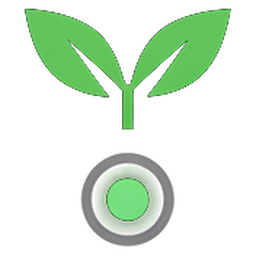
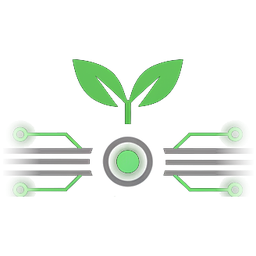
Branding: the mark keeps the conduits leaving the sprout's hub
The icon is now the sprout and hub with the conduits running out to each
side (the bus lines and inner nodes), fading at the edges as if they go
on. It's the favicon and iOS icon (square), and, cropped wide, sits
beside the wordmark in the sidebar and the HTML view's toolbar.

diff --git a/internal/htmlview/page.html b/internal/htmlview/page.html
@@ -46,7 +46,7 @@ button:hover { border-color: var(--muted); }
 .seg button + button { border-left: 1px solid var(--line); }
 .seg button.on { background: var(--accent); color: var(--panel); }
 .brand { display: inline-flex; align-items: center; gap: 6px; font-weight: 700; color: var(--ink); text-decoration: none; letter-spacing: -.01em; }
-.brand img { width: 22px; height: 22px; }
+.brand img { height: 22px; width: auto; }
 .seg-label { font-size: 13px; color: var(--muted); }
 
 /* Overview */

diff --git a/internal/server/web/index.html b/internal/server/web/index.html
@@ -13,7 +13,7 @@
 </head>
 <body>
   <aside id="sidebar">
-    <a href="#/" class="brand"><img src="brand/mark.png" alt="" width="30" height="30"><span>runnr</span></a>
+    <a href="#/" class="brand"><img src="brand/mark-wide.png" alt="" height="30"><span>runnr</span></a>
     <div class="side-actions">
       <button id="new-btn" class="primary">+ New runbook</button>
       <a href="#/history" class="nav-link" id="history-link">Run history</a>

diff --git a/docs/brand/make-assets.py b/docs/brand/make-assets.py
@@ -41,21 +41,34 @@ t.crop(box).save(f"{out}/logo.png", optimize=True)        # transparent: use thi
 im.crop(box).save(f"{out}/logo-black.png", optimize=True)  # on black
 im.save(f"{out}/logo-square-black.png", optimize=True)     # the original, square
 
-# The mark (favicon): just the sprout and the hub, no traces.
+def fade(t, frac):
+    """Fade the left and right edges out, so the conduits run on past it."""
+    w, h = t.size
+    p = t.load()
+    f = max(1, int(w * frac))
+    for y in range(h):
+        for x in range(w):
+            d = min(x, w - 1 - x)
+            if d < f:
+                r, g, b, a = p[x, y]
+                p[x, y] = (r, g, b, round(a * (d / f) ** 1.3))
+    return t
+
+
+# The mark: the sprout, the hub and the conduits leaving it sideways (the
+# bus lines and the inner nodes), fading out at the sides.
 m = Image.new("RGB", im.size)
 mp = m.load()
-for y in range(H):
-    for x in range(W):
-        sprout = 436 <= x <= 588 and 372 <= y <= 466
-        hub = (x - 512) ** 2 + (y - 512) ** 2 <= 34 ** 2
-        if sprout or hub:
-            mp[x, y] = px[x, y]
+for y in range(365, 557):
+    for x in range(352, 673):
+        mp[x, y] = px[x, y]
 mt = cutout(m)
-mb = mt.getchannel("A").point(lambda v: 255 if v > 24 else 0).getbbox()
-cx, cy = (mb[0] + mb[2]) // 2, (mb[1] + mb[3]) // 2
-half = max(mb[2] - mb[0], mb[3] - mb[1]) // 2 + 6
-sq = (cx - half, cy - half, cx + half, cy + half)
-mark = mt.crop(sq)
+bb = mt.getchannel("A").point(lambda v: 255 if v > 24 else 0).getbbox()
+wide = fade(mt.crop((bb[0] - 2, bb[1] - 2, bb[2] + 2, bb[3] + 2)), 0.16)
+wide.resize((wide.width * 160 // wide.height, 160), Image.LANCZOS).save(f"{out}/mark-wide.png", optimize=True)
+cx, cy = (bb[0] + bb[2]) // 2, (bb[1] + bb[3]) // 2
+half = max(bb[2] - bb[0], bb[3] - bb[1]) // 2 + 4
+mark = fade(mt.crop((cx - half, cy - half, cx + half, cy + half)), 0.16)
 mark.resize((256, 256), Image.LANCZOS).save(f"{out}/mark.png", optimize=True)
 for s in (16, 32, 48):
     mark.resize((s, s), Image.LANCZOS).save(f"{out}/favicon-{s}.png", optimize=True)
@@ -64,4 +77,4 @@ mark.resize((256, 256), Image.LANCZOS).save(f"{out}/favicon.ico", sizes=[(16, 16
 bg = Image.new("RGBA", (180, 180), (0, 0, 0, 255))
 bg.alpha_composite(mark.resize((140, 140), Image.LANCZOS), (20, 20))
 bg.convert("RGB").save(f"{out}/apple-touch-icon.png", optimize=True)
-print("logo", box, "mark", sq)
+print("logo", box, "mark", bb)

diff --git a/internal/htmlview/htmlview.go b/internal/htmlview/htmlview.go
@@ -21,7 +21,8 @@ import (
 //go:embed page.html
 var pageHTML string
 
-// markPNG is runnr's mark (the sprout), for the page's icon and header.
+// markPNG is runnr's mark (the sprout, the hub and its conduits), for the
+// page's icon and header.
 //
 //go:embed mark.png
 var markPNG []byte

diff --git a/docs/brand/README.md b/docs/brand/README.md
@@ -7,7 +7,8 @@ The logo is a sprout growing from a circuit: runbooks that grow and run.
 | `logo.png` | The logo on a transparent background. Use this almost everywhere (it works on light and dark). |
 | `logo-black.png` | The logo on black, cropped like `logo.png`, for places that need a solid background. |
 | `logo-square-black.png` | The original square artwork on black (1024×1024), e.g. for avatars and social cards. |
-| `mark.png` | Just the sprout and hub, transparent (256×256): favicons, small spaces. |
+| `mark.png` | The mark: the sprout and hub with the conduits leaving it, fading out at the sides; transparent, square (256×256). Favicons and app icons. |
+| `mark-wide.png` | The same mark cropped wide (no empty space above and below), for beside the wordmark. |
 
 The web app's copies (favicon sizes, the iOS icon on black) are in
 `internal/server/web/brand/`; the HTML view embeds a 64px `mark.png`.
